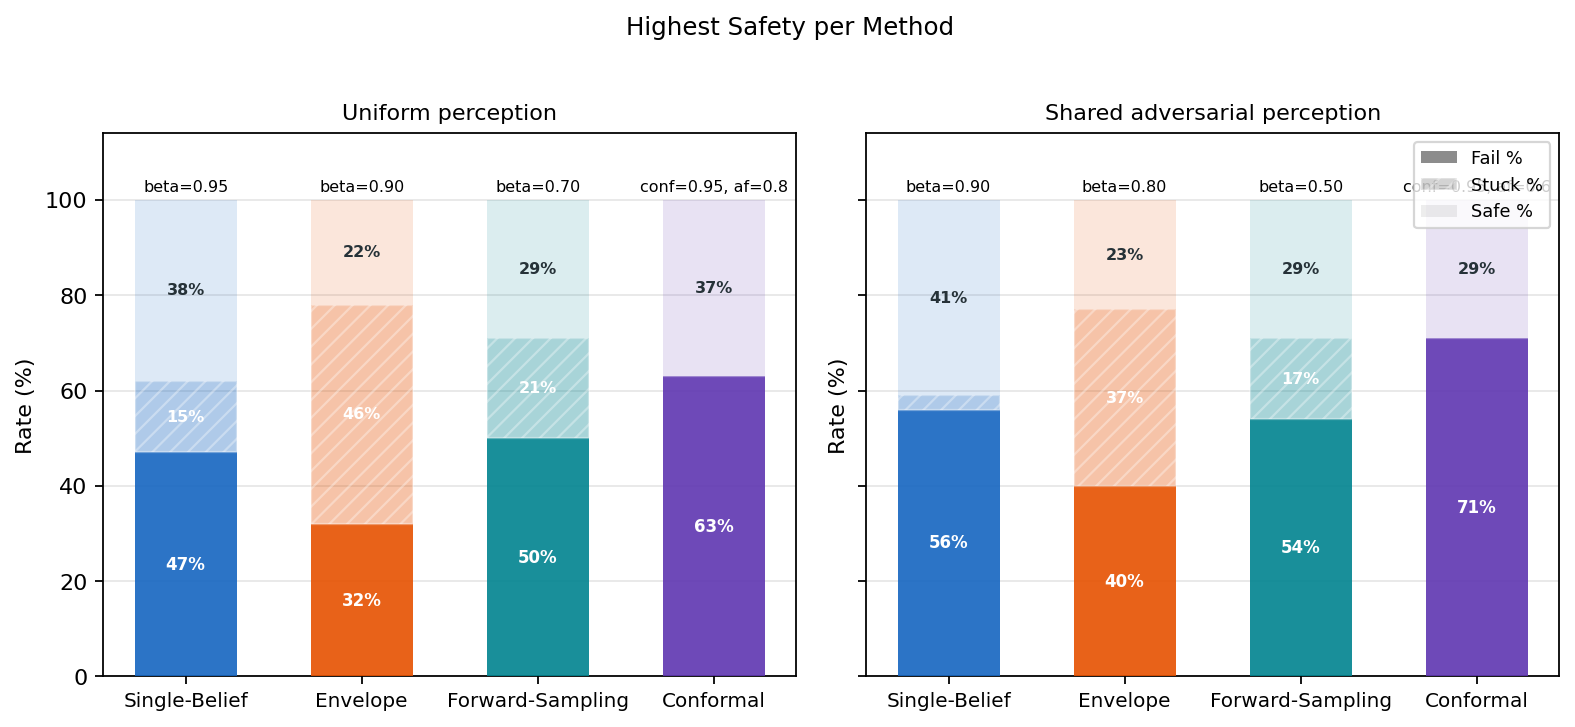
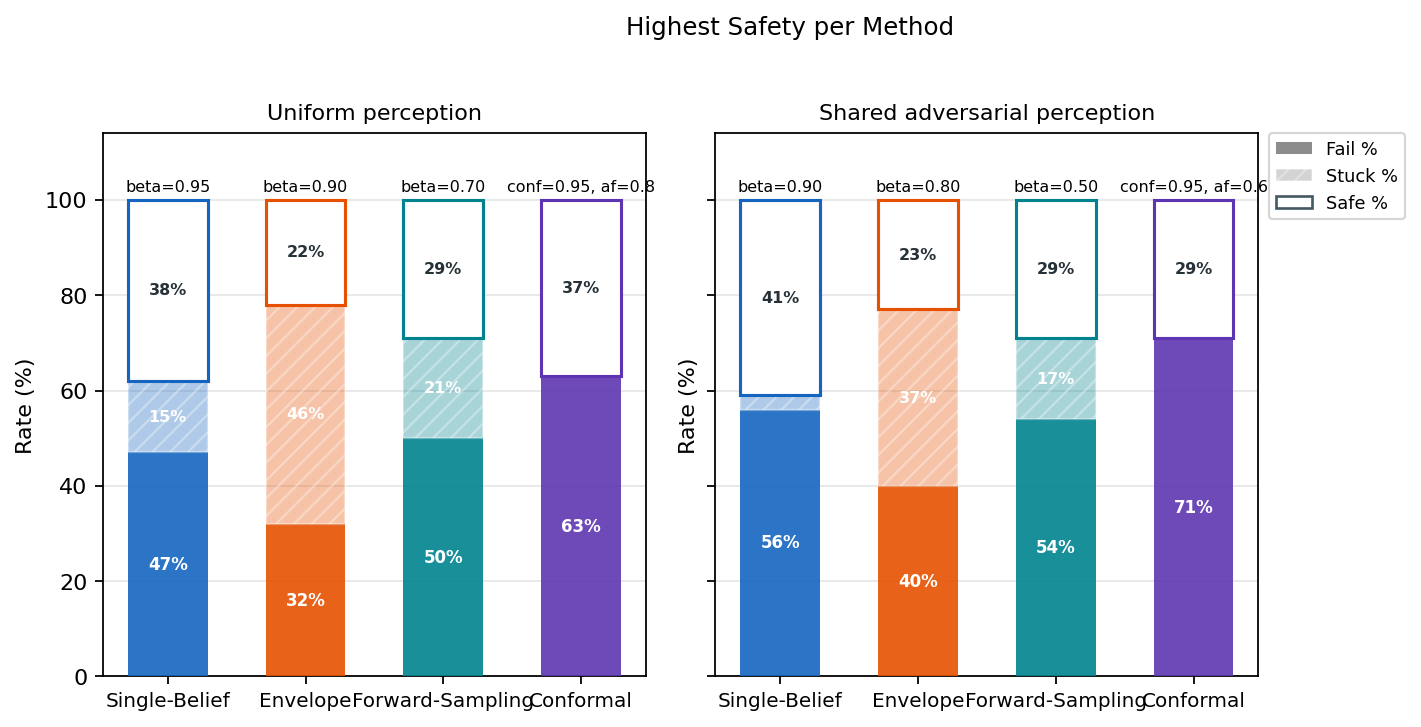
Tweak TaxiNetV2 operating sweep bar styling

diff --git a/ipomdp_shielding_/ipomdp_shielding/experiments/plot_taxinet_v2_operating_pareto_sweep.py b/ipomdp_shielding_/ipomdp_shielding/experiments/plot_taxinet_v2_operating_pareto_sweep.py
@@ -203,7 +203,16 @@ def _draw_best_bars(ax, best_rows: Dict[str, dict], title: str) -> None:
         edgecolor="white",
         zorder=3,
     )
-    ax.bar(x, safes, width, bottom=np.array(fails) + np.array(stucks), color=colors, alpha=0.14, zorder=3)
+    ax.bar(
+        x,
+        safes,
+        width,
+        bottom=np.array(fails) + np.array(stucks),
+        color="white",
+        edgecolor=colors,
+        linewidth=1.4,
+        zorder=3,
+    )
 
     for i, method in enumerate(methods):
         total = fails[i] + stucks[i] + safes[i]
@@ -263,10 +272,16 @@ def make_best_bar_figure(results: dict, out_path: Path, objective: str) -> Path:
 
     fail_patch = mpatches.Patch(facecolor="gray", alpha=0.9, label="Fail %")
     stuck_patch = mpatches.Patch(facecolor="gray", alpha=0.34, hatch="///", edgecolor="white", label="Stuck %")
-    safe_patch = mpatches.Patch(facecolor="gray", alpha=0.14, label="Safe %")
-    axes[1].legend(handles=[fail_patch, stuck_patch, safe_patch], fontsize=8, loc="upper right")
+    safe_patch = mpatches.Patch(facecolor="white", edgecolor="#455A64", linewidth=1.2, label="Safe %")
+    axes[1].legend(
+        handles=[fail_patch, stuck_patch, safe_patch],
+        fontsize=8,
+        loc="upper left",
+        bbox_to_anchor=(1.02, 1.0),
+        borderaxespad=0.0,
+    )
 
-    fig.tight_layout(rect=(0, 0, 1, 0.96))
+    fig.tight_layout(rect=(0, 0, 0.9, 0.96))
     fig.savefig(out_path, dpi=160, bbox_inches="tight")
     plt.close(fig)
     return out_path
